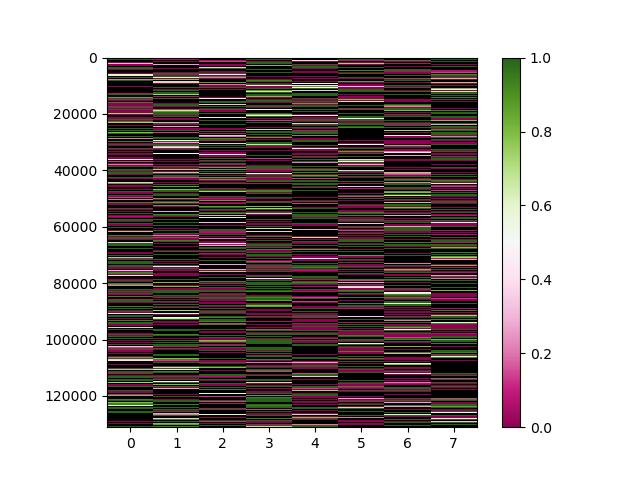
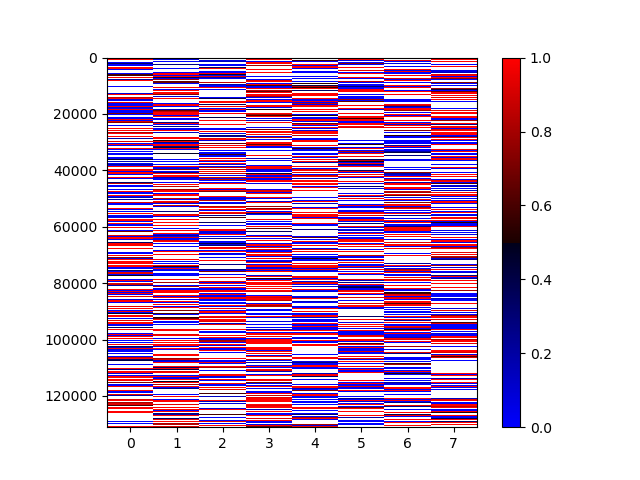
fingerprinting plots finished

diff --git a/analysis_2.py b/analysis_2.py
@@ -6,8 +6,15 @@ import seaborn as sns
 import itertools
 import time
 import os
+import matplotlib as mpl
+from functools import reduce
 
 start_time = time.time()
+
+
+def factors(n):
+    return np.sort(list(reduce(list.__add__,
+                               ([i, n // i] for i in range(1, int(n ** 0.5) + 1) if n % i == 0))))
 
 def flatten(xss):
     return [x for xs in xss for x in xs]
@@ -150,7 +157,7 @@ def PUF_train(trdata):
     return rounded_expec_vals, weightings, x
 
 
-def plot_distros(arrs, length=0):
+def density_plots(arrs, length=0):
     for arr in arrs:
         if length > 0:
             sns.kdeplot(100 * arr / length)
@@ -160,10 +167,78 @@ def plot_distros(arrs, length=0):
     plt.xlabel("hamming distance (%)" if length > 0 else "hamming distance (total)")
     plt.show()
 
+
+def chip_topology_plots(mbdata):
+    mb_exp_bit_vals = np.sum(mbdata.astype(np.float), axis=0).reshape(1, -1) / len(mbdata[:, 0])
+    # mb_exp_bit_vals[:,~volatile_bits_mask] = None
+    total_bits = mb_exp_bit_vals.shape[1]
+    factor_list = factors(total_bits)
+    print("total bits:", total_bits, "\t num of factors: ", len(factor_list))
+
+    ## Plots
+    cdict1 = {'red': ((0.0, 0.0, 0.0),
+                      (0.5, 0.0, 0.1),
+                      (1.0, 1.0, 1.0)),
+
+              'green': ((0.0, 0.0, 0.0),
+                        (1.0, 0.0, 0.0)),
+
+              'blue': ((0.0, 0.0, 1.0),
+                       (0.5, 0.1, 0.0),
+                       (1.0, 0.0, 0.0))
+              }
+    blue_red1 = mpl.colors.LinearSegmentedColormap('BlueRed1', cdict1)
+    plt.rcParams['axes.facecolor'] = 'white'
+
+    for factor in factor_list[:]:
+        image = mb_exp_bit_vals.reshape(factor, -1)
+        fig, ax = plt.subplots()
+        im = plt.imshow(image, origin='upper',
+                        aspect=image.shape[1]/image.shape[0],
+                        cmap=plt.get_cmap(blue_red1),
+                        interpolation='nearest',
+                        vmin=0, vmax=1)
+        fig.colorbar(im)
+        plt.savefig("figs/chip_layouts/{0}-rows.png".format(factor))
+
+
+def chip_fingerprints(mbdatas):
+    fingerprint_arr = []
+    for mbdata in mbdatas:
+        mb_exp_bit_vals = np.sum(mbdata.astype(np.float), axis=0).reshape(1, -1) / len(mbdata[:, 0])
+        fingerprint_arr.append(mb_exp_bit_vals)
+    fingerprint_arr = np.array(fingerprint_arr).reshape(len(mbdatas), -1)
+
+    fingerprint_arr[:,~volatile_bits_mask] = None
+
+    ## Plots
+    cdict1 = {'red': ((0.0, 0.0, 0.0),
+                      (0.5, 0.0, 0.1),
+                      (1.0, 1.0, 1.0)),
+
+              'green': ((0.0, 0.0, 0.0),
+                        (1.0, 0.0, 0.0)),
+
+              'blue': ((0.0, 0.0, 1.0),
+                       (0.5, 0.1, 0.0),
+                       (1.0, 0.0, 0.0))
+              }
+    blue_red1 = mpl.colors.LinearSegmentedColormap('BlueRed1', cdict1)
+    plt.rcParams['axes.facecolor'] = 'white'
+    fig, ax = plt.subplots()
+    im = plt.imshow(fingerprint_arr, origin='upper',
+                    aspect=fingerprint_arr.shape[1]/len(mbdatas),
+                    cmap=plt.get_cmap(blue_red1),
+                    interpolation='nearest',
+                    vmin=0, vmax=1)
+    fig.colorbar(im)
+    plt.savefig("figs/fingerprints.png")
+
 if __name__ == "__main__":
     ## load data
     # read_data_from_files()
-    [mb1trdata, mb2trdata, mb3trdata, mb4trdata, mb5trdata], [mb1tedata, mb2tedata, mb3tedata, mb4tedata, mb5tedata]= load("temp/mbtrdata.npy"), load("temp/mbtedata.npy") # read data from pickle
+    [mb1trdata, mb2trdata, mb3trdata, mb4trdata, mb5trdata]= load("temp/mbtrdata.npy") # read data from pickle
+    [mb1tedata, mb2tedata, mb3tedata, mb4tedata, mb5tedata] = load("temp/mbtedata.npy")
 
     # mask of all bits that do change between microbits
     volatile_bits_mask = ~load("temp/global_const_bits.npy").reshape(-1)
@@ -178,42 +253,14 @@ if __name__ == "__main__":
     mb4_dists = get_weighted_hamming_distances(mb4tedata[:, volatile_bits_mask], rounded_exp_values_mb1, mb1_weightings)
     mb5_dists = get_weighted_hamming_distances(mb5tedata[:, volatile_bits_mask], rounded_exp_values_mb1, mb1_weightings)
 
-    # plot the weighted hamming distances between the test microbit and expected values
+    ## plot the weighted hamming distances between the test microbit and expected values
     # plot_distros([mb1_dists, mb2_dists, mb3_dists, mb4_dists, mb5_dists], mb2tedata.shape[1])
 
+    ## plot images of expected values for different chip layouts
+    # chip_topology_plots(mb1trdata)
 
-
-
-    # -------- NEW!
-    # heatmap of expected bit values
-
-    from functools import reduce
-
-    def factors(n):
-        return np.sort(list(reduce(list.__add__,
-                          ([i, n // i] for i in range(1, int(n ** 0.5) + 1) if n % i == 0))))
-
-
-    mb1_exp_bit_vals = np.sum(mb4trdata.astype(np.float), axis=0).reshape(1, -1) / len(mb1trdata[:, 0])
-    mb1_exp_bit_vals[:,~volatile_bits_mask] = None
-    total_bits = mb1_exp_bit_vals.shape[1]
-    factor_list = factors(total_bits)
-    print("total bits:", total_bits, "\t num of factors: ", len(factor_list))
-
-    plt.rcParams['axes.facecolor'] = 'black'
-
-    for factor in factor_list[:]:
-        image = mb1_exp_bit_vals.reshape(factor, -1)
-        fig, ax = plt.subplots()
-        im = plt.imshow(image, origin='upper',
-                        aspect=image.shape[1]/image.shape[0],
-                        cmap=plt.get_cmap('PiYG'),
-                        interpolation='nearest',
-                        vmin=0, vmax=1)
-
-        fig.colorbar(im)
-        plt.savefig("figs/chip_layouts/{0}-rows.png".format(factor))
-
+    ## plot the expected values for each of the microbits in the database linearly
+    chip_fingerprints([mb1trdata, mb2trdata, mb3trdata, mb4trdata, mb5trdata])
 
 
 

diff --git a/identify_microbit.py b/identify_microbit.py
@@ -60,7 +60,7 @@ for tri in training_info_database: # [expected value arrays, weightings, x]
     mbq_dists = analysis.get_weighted_hamming_distances(mbq[:, volatile_bits_mask], tri[0], tri[1]) # expected value arrays, weightings
     if np.mean(mbq_dists) <= tri[2]: # tri[2]: x
         correct_mb_str = [f for f in os.listdir("data/mb_database") if not f.startswith('.')][i]
-        analysis.plot_distros([mbq_dists], query_data.shape[1])
+        analysis.density_plots([mbq_dists], query_data.shape[1])
         print("microbit linked to fingerprint: {0}".format(correct_mb_str))
         found = True
     i += 1
